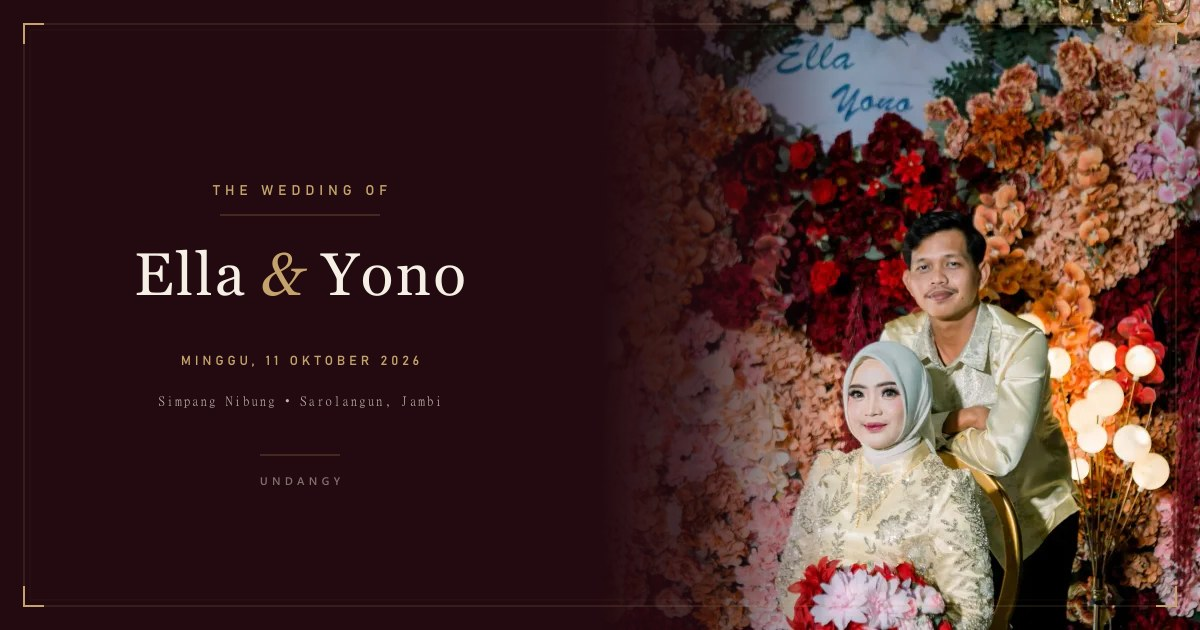
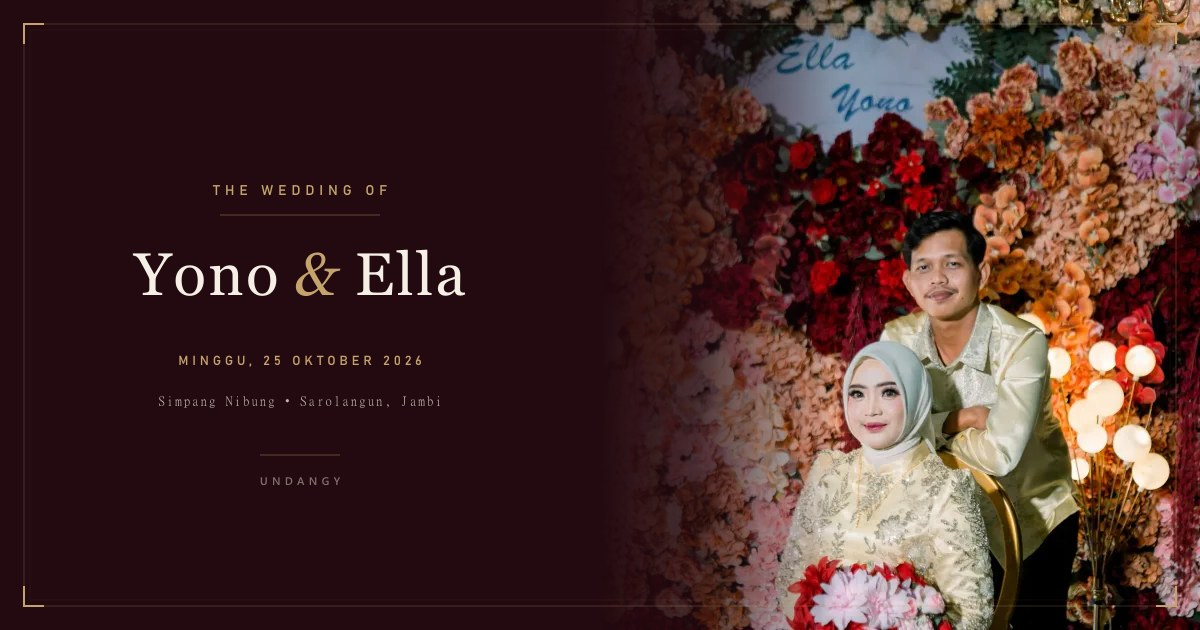
fix: update og metadata and og image to Yono & Ella

Changed region(s): [[0.0925, 0.3921, 0.4008, 0.4825], [0.2467, 0.5429, 0.3392, 0.6032], [0.1542, 0.5429, 0.2158, 0.6032]]

diff --git a/pages/index.vue b/pages/index.vue
@@ -56,14 +56,14 @@ const hasPersonalizedGuest = computed(() => {
 
 const metaTitle = computed(() => {
   if (hasPersonalizedGuest.value && guestName.value) {
-    return `The Wedding of Ella & Yono - Untuk ${guestName.value}`
+    return `${invitation.seo.title} - Untuk ${guestName.value}`
   }
   return invitation.seo.title
 })
 
 const metaDescription = computed(() => {
   if (hasPersonalizedGuest.value && guestName.value) {
-    return `Kepada Yth. ${guestName.value}, kami mengundang Anda untuk menghadiri acara pernikahan kami pada Minggu, 11 Oktober 2026.`
+    return `Kepada Yth. ${guestName.value}, kami mengundang Anda untuk menghadiri acara pernikahan kami pada ${invitation.countdown.dateText}.`
   }
   return invitation.seo.description
 })
@@ -79,7 +79,7 @@ useSeoMeta({
   ogImageType: invitation.seo.ogImageType || 'image/jpeg',
   ogImageWidth: invitation.seo.ogImageWidth || 1200,
   ogImageHeight: invitation.seo.ogImageHeight || 630,
-  ogImageAlt: invitation.seo.ogImageAlt || 'The Wedding of Ella & Yono',
+  ogImageAlt: invitation.seo.ogImageAlt || metaTitle.value,
   ogUrl: fullUrl,
   ogType: invitation.seo.ogType || 'website',
   ogSiteName: invitation.seo.ogSiteName || 'Undangy',
